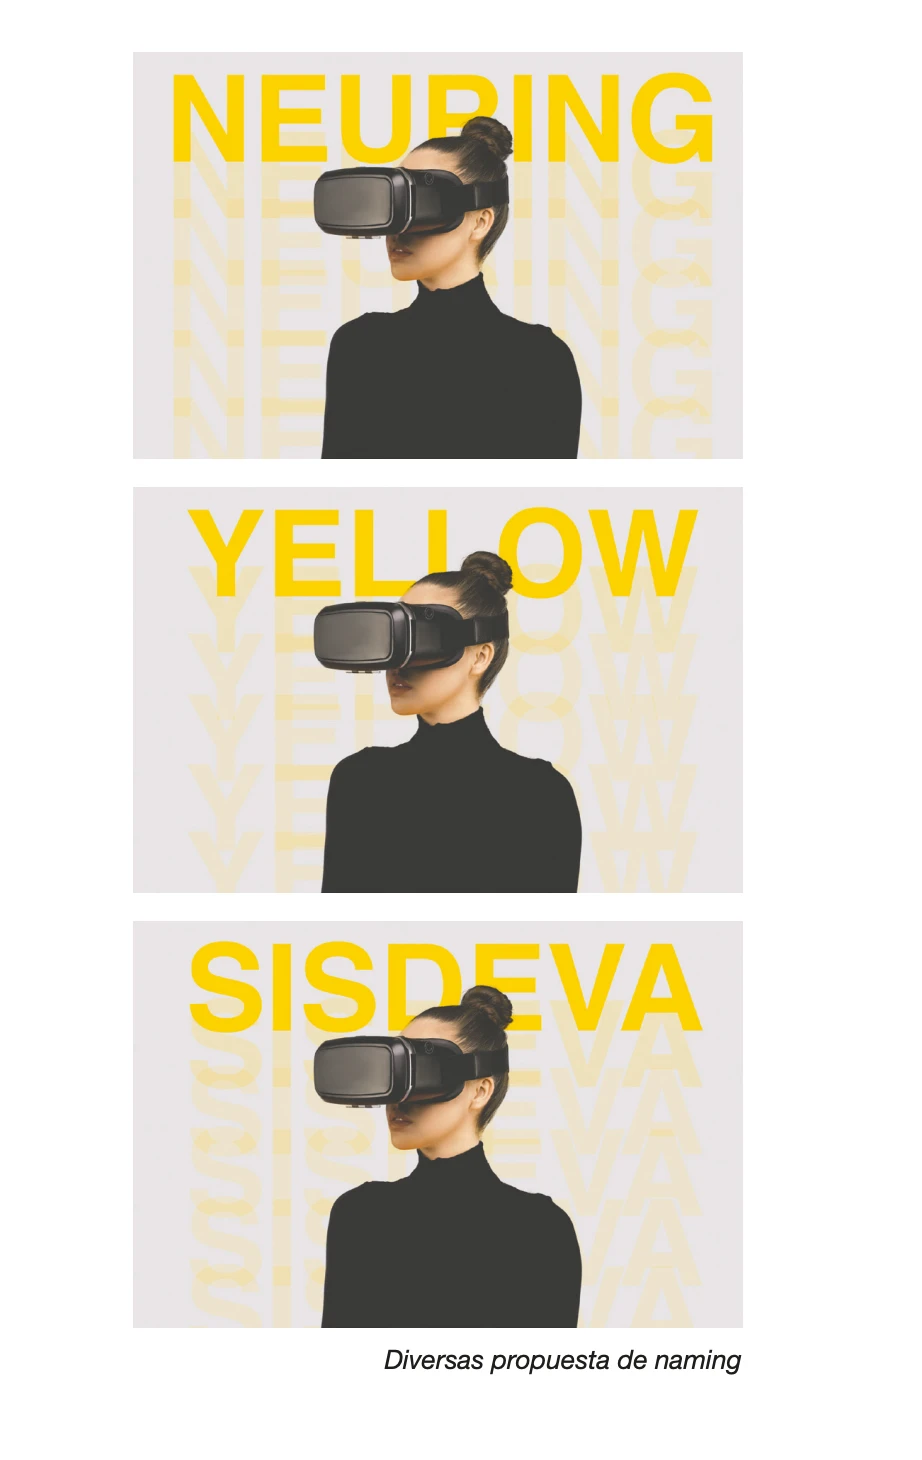
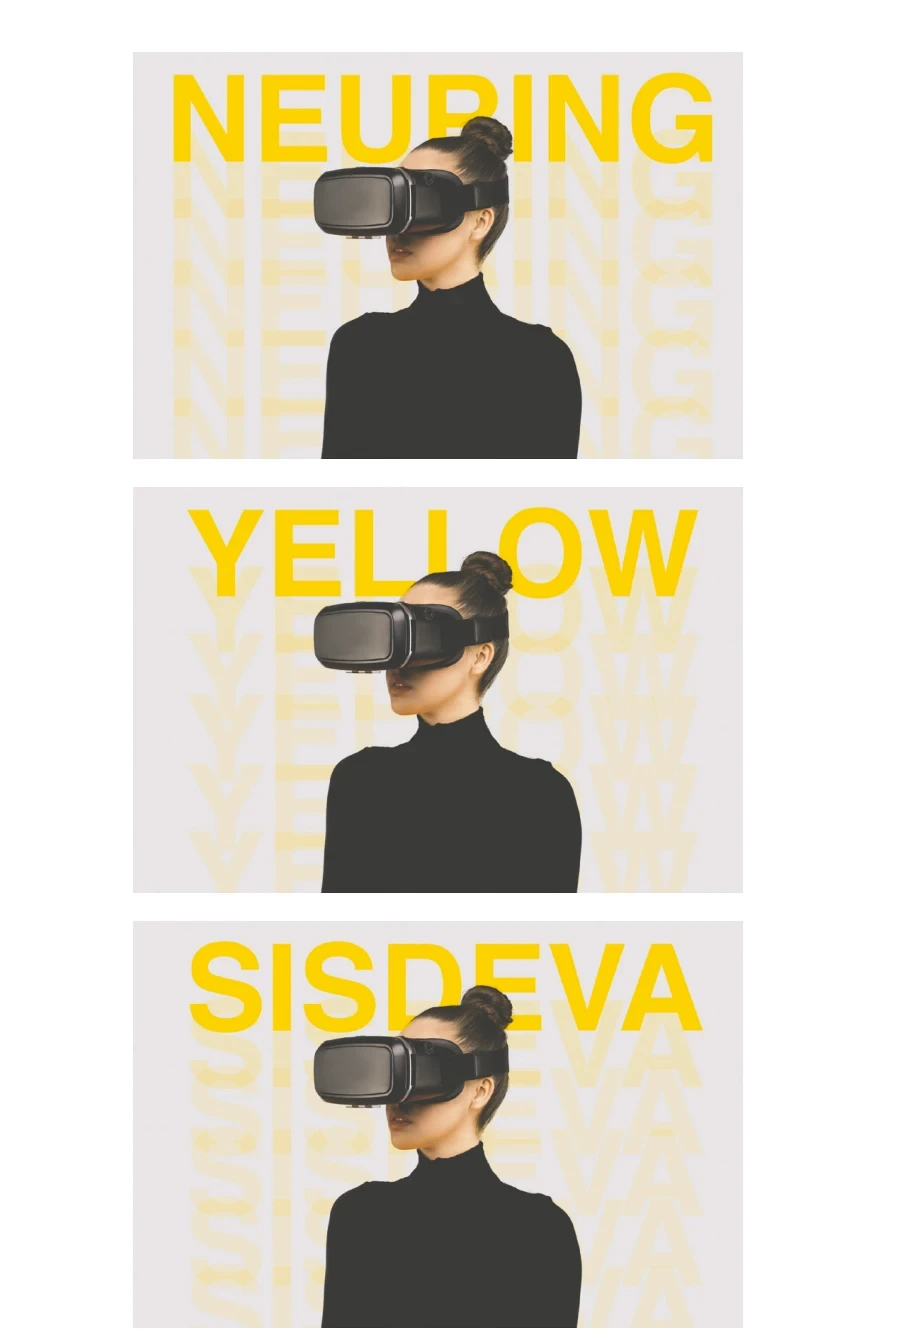
Remove footer from project pages and refine SISDEVA layout
Drop the contact footer from project case studies, switch two SISDEVA
grids to two columns, update the project password, and crop the
embedded caption out of the naming proposals image in favor of an
external one.

diff --git a/work/sisdeva.html b/work/sisdeva.html
@@ -244,7 +244,7 @@
         </p>
       </div>
 
-      <div class="reveal grid sm:grid-cols-3 gap-x-8 gap-y-10 md:gap-x-10">
+      <div class="reveal grid sm:grid-cols-2 gap-x-8 gap-y-10 md:gap-x-16">
         <div class="sm:border-l sm:border-ink/[0.08] sm:pl-8 sm:-ml-px">
           <p class="text-sm font-medium text-latte-dark mb-3">01</p>
           <h3 class="text-lg font-medium mb-2">Plataforma de comunicación interactiva</h3>
@@ -259,14 +259,14 @@
             Aprovechar dicha plataforma para facilitar la evaluación, tratamiento y seguimiento de las enfermedades por parte de los sanitarios.
           </p>
         </div>
-        <div class="sm:border-l sm:border-ink/[0.08] sm:pl-8">
+        <div class="sm:border-l sm:border-ink/[0.08] sm:pl-8 sm:-ml-px">
           <p class="text-sm font-medium text-latte-dark mb-3">03</p>
           <h3 class="text-lg font-medium mb-2">Tratamientos interactivos con realidad virtual</h3>
           <p class="text-sm text-slate leading-relaxed">
             Implementar nuevos tratamientos interactivos que combinan el uso de diseño gráfico y aplicaciones tecnológicas relacionadas con la realidad virtual como terapias de rehabilitación.
           </p>
         </div>
-        <div class="sm:border-l sm:border-ink/[0.08] sm:pl-8 sm:-ml-px">
+        <div class="sm:border-l sm:border-ink/[0.08] sm:pl-8">
           <p class="text-sm font-medium text-latte-dark mb-3">04</p>
           <h3 class="text-lg font-medium mb-2">Motivación del paciente</h3>
           <p class="text-sm text-slate leading-relaxed">
@@ -300,7 +300,7 @@
         </p>
       </div>
 
-      <div class="reveal grid sm:grid-cols-3 gap-x-8 gap-y-10 md:gap-x-10 mt-14">
+      <div class="reveal grid sm:grid-cols-2 gap-x-8 gap-y-10 md:gap-x-16 mt-14">
         <div class="sm:border-l sm:border-ink/[0.08] sm:pl-8 sm:-ml-px">
           <p class="text-sm font-medium text-latte-dark mb-3">01</p>
           <h3 class="text-lg font-medium mb-2">Neurofit (2019)</h3>
@@ -315,14 +315,14 @@
             Desarrollada a través del Programa Innova Social. Envía alertas de medicación, ejercicios prácticos, fisioterapia, logopedia o terapia ocupacional.
           </p>
         </div>
-        <div class="sm:border-l sm:border-ink/[0.08] sm:pl-8">
+        <div class="sm:border-l sm:border-ink/[0.08] sm:pl-8 sm:-ml-px">
           <p class="text-sm font-medium text-latte-dark mb-3">03</p>
           <h3 class="text-lg font-medium mb-2">Párkinson contigo</h3>
           <p class="text-sm text-slate leading-relaxed">
             Información sobre la enfermedad y sus tratamientos, con apartados para controlar la medicación.
           </p>
         </div>
-        <div class="sm:border-l sm:border-ink/[0.08] sm:pl-8 sm:-ml-px">
+        <div class="sm:border-l sm:border-ink/[0.08] sm:pl-8">
           <p class="text-sm font-medium text-latte-dark mb-3">04</p>
           <h3 class="text-lg font-medium mb-2">HOOP</h3>
           <p class="text-sm text-slate leading-relaxed">
@@ -443,6 +443,7 @@
       <div class="reveal rounded-2xl overflow-hidden">
         <img src="sisdeva-naming-proposals.webp" alt="Diversas propuestas de naming: Neuring, Yellow y SISDEVA, cada una superpuesta sobre la fotografía de la persona con gafas de realidad virtual" class="w-full h-auto">
       </div>
+      <p class="reveal text-xs text-slate mt-3">Diversas propuestas de naming</p>
     </section>
 
     <!-- ===== 06 · IDENTIDAD CORPORATIVA Y ACTIVIDAD PROMOCIONAL ===== -->
@@ -667,30 +668,6 @@
     </section>
 
   </main>
-
-  <!-- ===== FOOTER ===== -->
-  <footer id="contact" class="max-w-6xl mx-auto px-6 md:px-10 pt-[64px] pb-10 md:pb-14">
-    <h2 class="reveal text-4xl sm:text-5xl md:text-6xl font-semibold tracking-tightest leading-[1.05]">¿Hablamos?</h2>
-
-    <div class="reveal mt-6">
-      <p class="text-lg text-slate leading-relaxed">
-        Utiliza las diferentes vías de comunicación para ponerte en contacto conmigo, estaré encantado de contestarte en la mayor brevedad posible :)
-      </p>
-
-      <div class="flex flex-wrap items-center gap-4 pt-6">
-        <button type="button" id="copy-email" class="focus-ring inline-flex items-center gap-2 bg-ink text-paper text-sm font-medium px-6 py-3.5 rounded-full hover:bg-slate transition-colors">
-          <svg id="copy-icon" width="16" height="16" viewBox="0 0 24 24" fill="none" stroke="currentColor" stroke-width="2" stroke-linecap="round" stroke-linejoin="round"><rect x="9" y="9" width="13" height="13" rx="2"/><path d="M5 15H4a2 2 0 0 1-2-2V4a2 2 0 0 1 2-2h9a2 2 0 0 1 2 2v1"/></svg>
-          <svg id="check-icon" class="hidden" width="16" height="16" viewBox="0 0 24 24" fill="none" stroke="currentColor" stroke-width="2" stroke-linecap="round" stroke-linejoin="round"><path d="M20 6L9 17l-5-5"/></svg>
-          <span id="copy-email-label">Copiar email</span>
-        </button>
-        <a href="https://www.linkedin.com/in/javierdiazrodriguez/" target="_blank" rel="noopener noreferrer" class="focus-ring inline-flex items-center gap-2 text-sm font-medium px-6 py-3.5 rounded-full border border-ink/15 hover:bg-latte/40 hover:border-latte-dark transition-colors">
-          <svg width="16" height="16" viewBox="0 0 24 24" fill="currentColor"><path d="M20.447 20.452h-3.554v-5.569c0-1.328-.027-3.037-1.852-3.037-1.853 0-2.136 1.445-2.136 2.939v5.667H9.351V9h3.414v1.561h.046c.477-.9 1.637-1.85 3.37-1.85 3.601 0 4.267 2.37 4.267 5.455v6.286zM5.337 7.433c-1.144 0-2.063-.926-2.063-2.065 0-1.138.92-2.063 2.063-2.063 1.14 0 2.064.925 2.064 2.063 0 1.139-.925 2.065-2.064 2.065zm1.782 13.019H3.555V9h3.564v11.452zM22.225 0H1.771C.792 0 0 .774 0 1.729v20.542C0 23.227.792 24 1.771 24h20.451C23.2 24 24 23.227 24 22.271V1.729C24 .774 23.2 0 22.222 0h.003z"/></svg>
-          LinkedIn
-        </a>
-      </div>
-    </div>
-
-  </footer>
 
   <script>
     document.body.classList.add('is-ready');

diff --git a/work/notification-system.html b/work/notification-system.html
@@ -609,30 +609,6 @@
 
   </main>
 
-  <!-- ===== FOOTER ===== -->
-  <footer id="contact" class="hidden max-w-6xl mx-auto px-6 md:px-10 pt-[64px] pb-10 md:pb-14">
-    <h2 class="reveal text-4xl sm:text-5xl md:text-6xl font-semibold tracking-tightest leading-[1.05]">¿Hablamos?</h2>
-
-    <div class="reveal mt-6">
-      <p class="text-lg text-slate leading-relaxed">
-        Utiliza las diferentes vías de comunicación para ponerte en contacto conmigo, estaré encantado de contestarte en la mayor brevedad posible :)
-      </p>
-
-      <div class="flex flex-wrap items-center gap-4 pt-6">
-        <button type="button" id="copy-email" class="focus-ring inline-flex items-center gap-2 bg-ink text-paper text-sm font-medium px-6 py-3.5 rounded-full hover:bg-slate transition-colors">
-          <svg id="copy-icon" width="16" height="16" viewBox="0 0 24 24" fill="none" stroke="currentColor" stroke-width="2" stroke-linecap="round" stroke-linejoin="round"><rect x="9" y="9" width="13" height="13" rx="2"/><path d="M5 15H4a2 2 0 0 1-2-2V4a2 2 0 0 1 2-2h9a2 2 0 0 1 2 2v1"/></svg>
-          <svg id="check-icon" class="hidden" width="16" height="16" viewBox="0 0 24 24" fill="none" stroke="currentColor" stroke-width="2" stroke-linecap="round" stroke-linejoin="round"><path d="M20 6L9 17l-5-5"/></svg>
-          <span id="copy-email-label">Copiar email</span>
-        </button>
-        <a href="https://www.linkedin.com/in/javierdiazrodriguez/" target="_blank" rel="noopener noreferrer" class="focus-ring inline-flex items-center gap-2 text-sm font-medium px-6 py-3.5 rounded-full border border-ink/15 hover:bg-latte/40 hover:border-latte-dark transition-colors">
-          <svg width="16" height="16" viewBox="0 0 24 24" fill="currentColor"><path d="M20.447 20.452h-3.554v-5.569c0-1.328-.027-3.037-1.852-3.037-1.853 0-2.136 1.445-2.136 2.939v5.667H9.351V9h3.414v1.561h.046c.477-.9 1.637-1.85 3.37-1.85 3.601 0 4.267 2.37 4.267 5.455v6.286zM5.337 7.433c-1.144 0-2.063-.926-2.063-2.065 0-1.138.92-2.063 2.063-2.063 1.14 0 2.064.925 2.064 2.063 0 1.139-.925 2.065-2.064 2.065zm1.782 13.019H3.555V9h3.564v11.452zM22.225 0H1.771C.792 0 0 .774 0 1.729v20.542C0 23.227.792 24 1.771 24h20.451C23.2 24 24 23.227 24 22.271V1.729C24 .774 23.2 0 22.222 0h.003z"/></svg>
-          LinkedIn
-        </a>
-      </div>
-    </div>
-
-  </footer>
-
   <script>
     document.body.classList.add('is-ready');
 
@@ -640,14 +616,13 @@
     (function () {
       const gate = document.getElementById('password-gate');
       const content = document.getElementById('protected-content');
-      const footer = document.getElementById('contact');
       const form = document.getElementById('password-form');
       const input = document.getElementById('password-input');
       const errorEl = document.getElementById('password-error');
       if (!gate || !content || !form || !input) return;
 
       const storageKey = 'unlock-notification-system';
[2 lines of base64/hex data omitted]
 
       async function sha256(text) {
         const buffer = await crypto.subtle.digest('SHA-256', new TextEncoder().encode(text));
@@ -657,7 +632,6 @@
       function unlock() {
         gate.classList.add('hidden');
         content.classList.remove('hidden');
-        if (footer) footer.classList.remove('hidden');
       }
 
       if (sessionStorage.getItem(storageKey) === '1') {

diff --git a/work/checkout-fintech.html b/work/checkout-fintech.html
@@ -378,30 +378,6 @@
 
   </main>
 
-  <!-- ===== FOOTER ===== -->
-  <footer id="contact" class="max-w-6xl mx-auto px-6 md:px-10 pt-[64px] pb-10 md:pb-14">
-    <h2 class="reveal text-4xl sm:text-5xl md:text-6xl font-semibold tracking-tightest leading-[1.05]">¿Hablamos?</h2>
-
-    <div class="reveal mt-6">
-      <p class="text-lg text-slate leading-relaxed">
-        Utiliza las diferentes vías de comunicación para ponerte en contacto conmigo, estaré encantado de contestarte en la mayor brevedad posible :)
-      </p>
-
-      <div class="flex flex-wrap items-center gap-4 pt-6">
-        <button type="button" id="copy-email" class="focus-ring inline-flex items-center gap-2 bg-ink text-paper text-sm font-medium px-6 py-3.5 rounded-full hover:bg-slate transition-colors">
-          <svg id="copy-icon" width="16" height="16" viewBox="0 0 24 24" fill="none" stroke="currentColor" stroke-width="2" stroke-linecap="round" stroke-linejoin="round"><rect x="9" y="9" width="13" height="13" rx="2"/><path d="M5 15H4a2 2 0 0 1-2-2V4a2 2 0 0 1 2-2h9a2 2 0 0 1 2 2v1"/></svg>
-          <svg id="check-icon" class="hidden" width="16" height="16" viewBox="0 0 24 24" fill="none" stroke="currentColor" stroke-width="2" stroke-linecap="round" stroke-linejoin="round"><path d="M20 6L9 17l-5-5"/></svg>
-          <span id="copy-email-label">Copiar email</span>
-        </button>
-        <a href="https://www.linkedin.com/in/javierdiazrodriguez/" target="_blank" rel="noopener noreferrer" class="focus-ring inline-flex items-center gap-2 text-sm font-medium px-6 py-3.5 rounded-full border border-ink/15 hover:bg-latte/40 hover:border-latte-dark transition-colors">
-          <svg width="16" height="16" viewBox="0 0 24 24" fill="currentColor"><path d="M20.447 20.452h-3.554v-5.569c0-1.328-.027-3.037-1.852-3.037-1.853 0-2.136 1.445-2.136 2.939v5.667H9.351V9h3.414v1.561h.046c.477-.9 1.637-1.85 3.37-1.85 3.601 0 4.267 2.37 4.267 5.455v6.286zM5.337 7.433c-1.144 0-2.063-.926-2.063-2.065 0-1.138.92-2.063 2.063-2.063 1.14 0 2.064.925 2.064 2.063 0 1.139-.925 2.065-2.064 2.065zm1.782 13.019H3.555V9h3.564v11.452zM22.225 0H1.771C.792 0 0 .774 0 1.729v20.542C0 23.227.792 24 1.771 24h20.451C23.2 24 24 23.227 24 22.271V1.729C24 .774 23.2 0 22.222 0h.003z"/></svg>
-          LinkedIn
-        </a>
-      </div>
-    </div>
-
-  </footer>
-
   <script>
     document.body.classList.add('is-ready');
 
